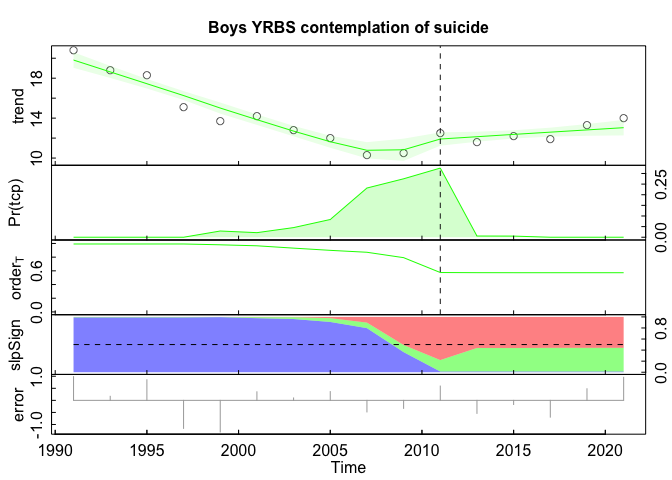
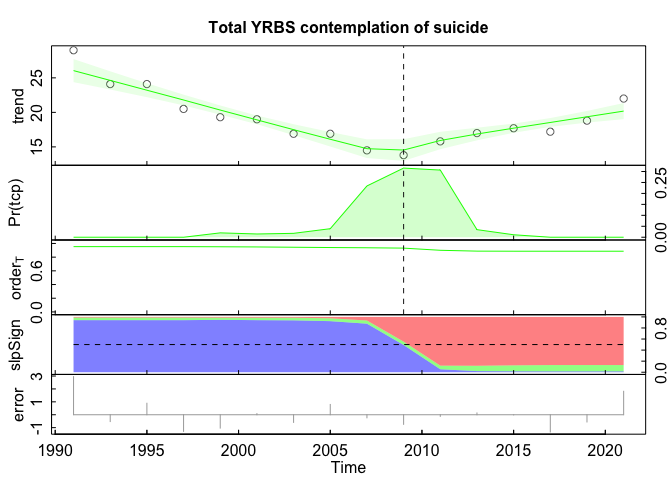
update

diff --git a/YRBS+Wonder.md b/YRBS+Wonder.md
@@ -84,6 +84,28 @@ tsdisplay(YRBS_con_boy_ts, main = "Boys YRBS contemplation of suicide", lag.max=
 ![](YRBS+Wonder_files/figure-gfm/plot%20boys-3.png)<!-- -->
 
 ``` r
+out1 <- beast(wonder_tot_ts, season='none')
+out2 <- beast(YRBS_sad_tot_ts, season='none')
+out3 <- beast(YRBS_con_tot_ts, season='none')
+
+plot(out1, main = "Total suicide")
+```
+
+![](YRBS+Wonder_files/figure-gfm/unnamed-chunk-2-1.png)<!-- -->
+
+``` r
+plot(out2, main = "Total YRBS feelings of sadness")
+```
+
+![](YRBS+Wonder_files/figure-gfm/unnamed-chunk-2-2.png)<!-- -->
+
+``` r
+plot(out3, main = "Total YRBS contemplation of suicide")
+```
+
+![](YRBS+Wonder_files/figure-gfm/unnamed-chunk-2-3.png)<!-- -->
+
+``` r
 out1 <- beast(wonder_boy, season='none')
 out2 <- beast(YRBS_sad_boy_ts, season='none')
 out3 <- beast(YRBS_con_boy_ts, season='none')
@@ -91,19 +113,19 @@ out3 <- beast(YRBS_con_boy_ts, season='none')
 plot(out1, main = "Boys suicide")
 ```
 
-![](YRBS+Wonder_files/figure-gfm/unnamed-chunk-2-1.png)<!-- -->
+![](YRBS+Wonder_files/figure-gfm/unnamed-chunk-3-1.png)<!-- -->
 
 ``` r
 plot(out2, main = "Boys YRBS feelings of sadness")
 ```
 
-![](YRBS+Wonder_files/figure-gfm/unnamed-chunk-2-2.png)<!-- -->
+![](YRBS+Wonder_files/figure-gfm/unnamed-chunk-3-2.png)<!-- -->
 
 ``` r
 plot(out3, main = "Boys YRBS contemplation of suicide")
 ```
 
-![](YRBS+Wonder_files/figure-gfm/unnamed-chunk-2-3.png)<!-- -->
+![](YRBS+Wonder_files/figure-gfm/unnamed-chunk-3-3.png)<!-- -->
 
 ``` r
 out1 <- beast(wonder_grl, season='none')
@@ -113,16 +135,16 @@ out3 <- beast(YRBS_con_grl_ts, season='none')
 plot(out1, main = "Girls suicide")
 ```
 
-![](YRBS+Wonder_files/figure-gfm/unnamed-chunk-3-1.png)<!-- -->
+![](YRBS+Wonder_files/figure-gfm/unnamed-chunk-4-1.png)<!-- -->
 
 ``` r
 plot(out2, main = "Girls YRBS feelings of sadness")
 ```
 
-![](YRBS+Wonder_files/figure-gfm/unnamed-chunk-3-2.png)<!-- -->
+![](YRBS+Wonder_files/figure-gfm/unnamed-chunk-4-2.png)<!-- -->
 
 ``` r
 plot(out3, main = "Girlss YRBS contemplation of suicide")
 ```
 
-![](YRBS+Wonder_files/figure-gfm/unnamed-chunk-3-3.png)<!-- -->
+![](YRBS+Wonder_files/figure-gfm/unnamed-chunk-4-3.png)<!-- -->
